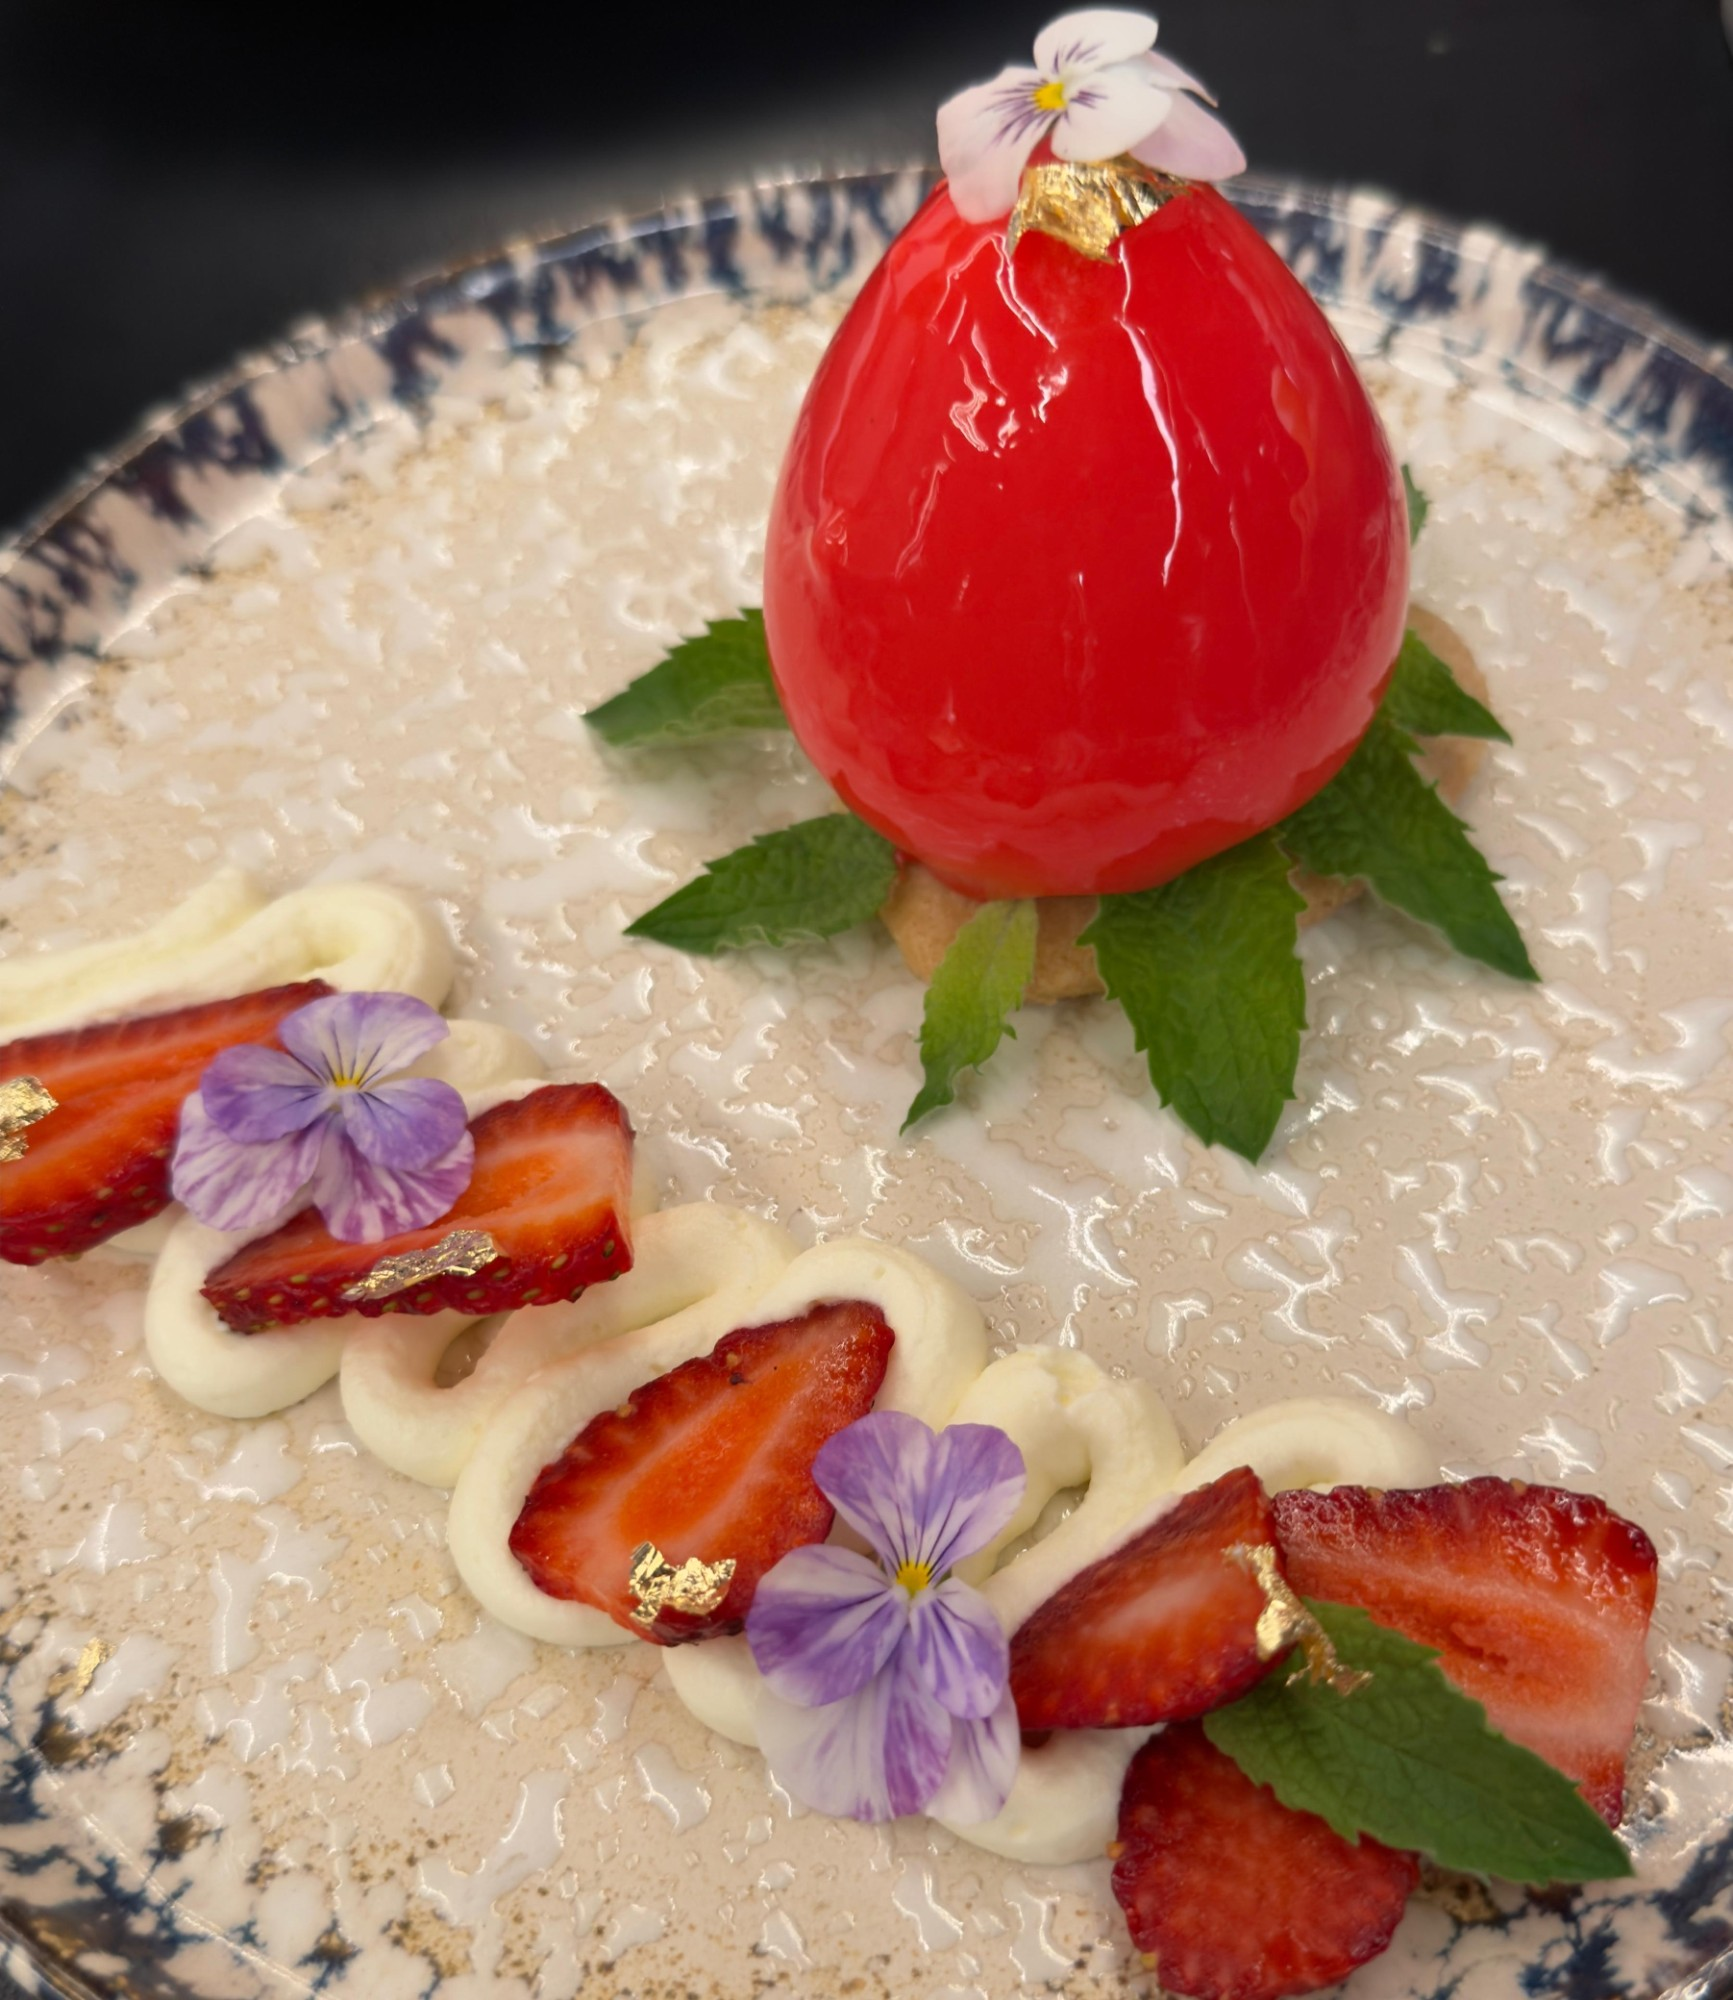
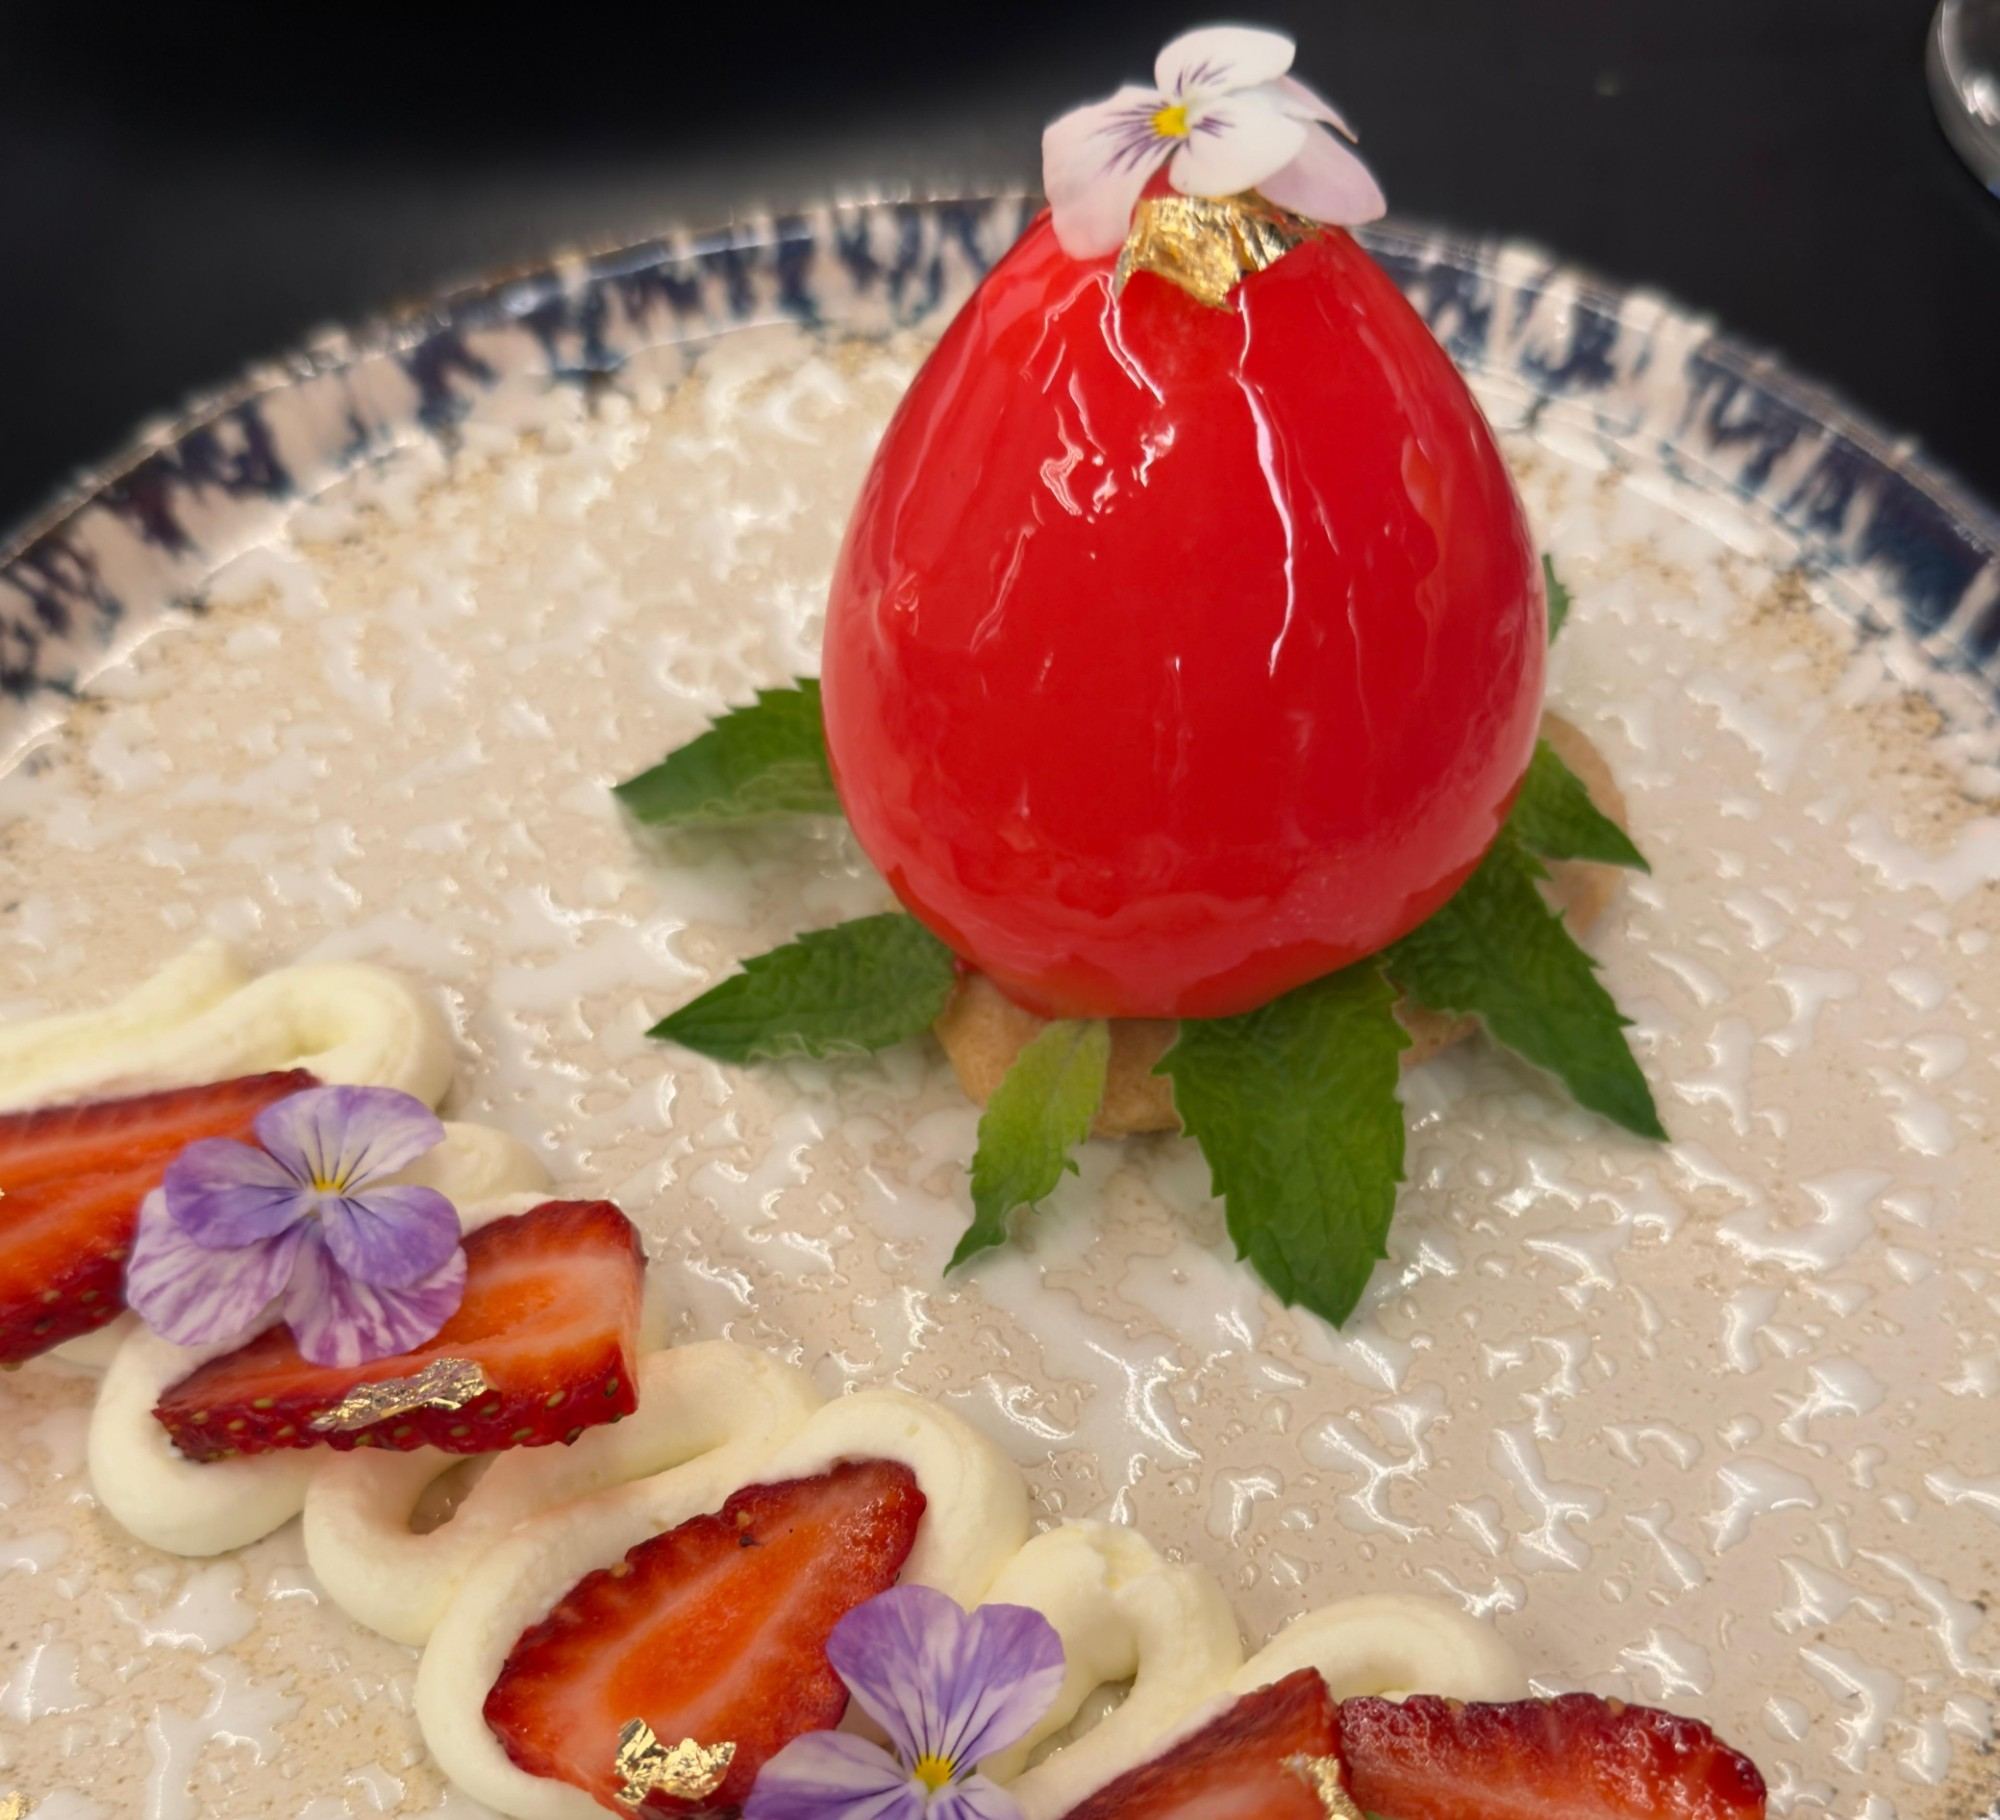
Menu: zoom Torta Opera/Tiramisu; new Postre del Amor photo; bigger Sushi geoglyph. Galeria: top wave covers card tops more. Significado: move Espiritu label, = and spiral left

diff --git a/styles.css b/styles.css
@@ -802,9 +802,13 @@ footer{
 /* Sakana Furai: recentrar el plato (la foto lo deja cargado a la derecha) */
 .menu-dark-area .item .item-img[alt="Sakana Furai"]{ object-position:50% 47%; transform-origin:70% 50%; transform:scale(1.3); }
 .menu-dark-area .item:hover .item-img[alt="Sakana Furai"]{ transform:scale(1.36); }
-/* Chicken Katsu: un poco de zoom para dar más protagonismo al plato */
-.menu-dark-area .item .item-img[alt="Chicken Katsu"]{ transform:scale(1.18); }
-.menu-dark-area .item:hover .item-img[alt="Chicken Katsu"]{ transform:scale(1.24); }
+/* Chicken Katsu / Torta Opera / Tiramisú: un poco de zoom para dar más protagonismo al plato */
+.menu-dark-area .item .item-img[alt="Chicken Katsu"],
+.menu-dark-area .item .item-img[alt="Torta Opera"],
+.menu-dark-area .item .item-img[alt="Tiramisú"]{ transform:scale(1.18); }
+.menu-dark-area .item:hover .item-img[alt="Chicken Katsu"],
+.menu-dark-area .item:hover .item-img[alt="Torta Opera"],
+.menu-dark-area .item:hover .item-img[alt="Tiramisú"]{ transform:scale(1.24); }
 .menu-dark-area .item-body{ padding:.6rem .75rem .65rem; gap:.35rem; flex:1; background:#cdeff6; position:relative; z-index:1; }
 .menu-dark-area .item-name{
   color:#1f3f8c; letter-spacing:.2px; font-weight:500; font-size:.98rem;
@@ -880,11 +884,12 @@ footer{
 }
 .eventos-inner{max-width:none;margin:0;text-align:center;position:relative}
 /* Ola negra superior: su borde ondulado baja sobre el borde superior de las tarjetas */
-.eventos-wave-top{position:absolute;left:0;right:0;top:19px;height:33px;z-index:2;line-height:0;pointer-events:none}
+.eventos-wave-top{position:absolute;left:0;right:0;top:18px;height:62px;z-index:2;line-height:0;pointer-events:none}
 .eventos-wave-top svg{display:block;width:100%;height:100%;overflow:visible}
 .eventos-label{
   display:block;font-size:.65rem;letter-spacing:4px;text-transform:uppercase;
   color:var(--teal);font-weight:700;margin-bottom:1rem;text-align:center;
+  position:relative;z-index:3;   /* siempre por encima de la ola negra */
 }
 .eventos-grid{
   display:flex;gap:.7rem;justify-content:safe center;

diff --git a/index.html b/index.html
@@ -248,12 +248,12 @@
         <img src="umi-significado.svg" class="sig-svg" alt="Viento + Mar + Espíritu = UMI"/>
         <span class="sig-op" style="left:26.5%;top:68%">+</span>
         <span class="sig-op" style="left:50.2%;top:68%">+</span>
-        <span class="sig-op" style="left:73.8%;top:68%">=</span>
+        <span class="sig-op" style="left:68%;top:68%">=</span>
       </div>
       <div class="sig-labels">
         <span class="sig-word" style="left:18%">Viento</span>
         <span class="sig-word" style="left:37.5%">Mar</span>
-        <span class="sig-word" style="left:62%">Espíritu</span>
+        <span class="sig-word" style="left:59%">Espíritu</span>
       </div>
     </div>
   </div>

diff --git a/script.js b/script.js
@@ -188,7 +188,7 @@ function buildMenu(){
   const IC = (f, s, dyp=0) => `<img src="${f}" style="--dyp:${dyp}%;width:${s}px;height:${s}px;max-width:none;max-height:none;object-fit:contain;display:block;position:absolute;top:50%;left:50%;transform:translate(-50%,calc(-50% - var(--dyp)));z-index:3;pointer-events:none">`;
   const MAIN = {
     'Para Compartir': { icon:'icon_compartir.svg', size:130, cats:['Entradas'], ring:'Compartir' },
-    'Sushi':     { icon:'icon_sushi.png',    size:105, cats:['Sushi Rolls','Rolls de Autor','Nigiris & Gunkans','Sashimi 3 Cortes'], ring:'Sushi' },
+    'Sushi':     { icon:'icon_sushi.png',    size:125, cats:['Sushi Rolls','Rolls de Autor','Nigiris & Gunkans','Sashimi 3 Cortes'], ring:'Sushi' },
     'Ceviches':  { icon:'icon_ceviches.svg', size:155, cats:['Ceviches'], ring:'Ceviches' },
     'Tiraditos': { icon:'icon_tiraditos.svg',size:150, cats:['Tiraditos'], ring:'Tiraditos' },
     'Ensaladas': { icon:'icon_ensaladas.svg',size:130, cats:['Ensaladas'], ring:'Ensaladas' },